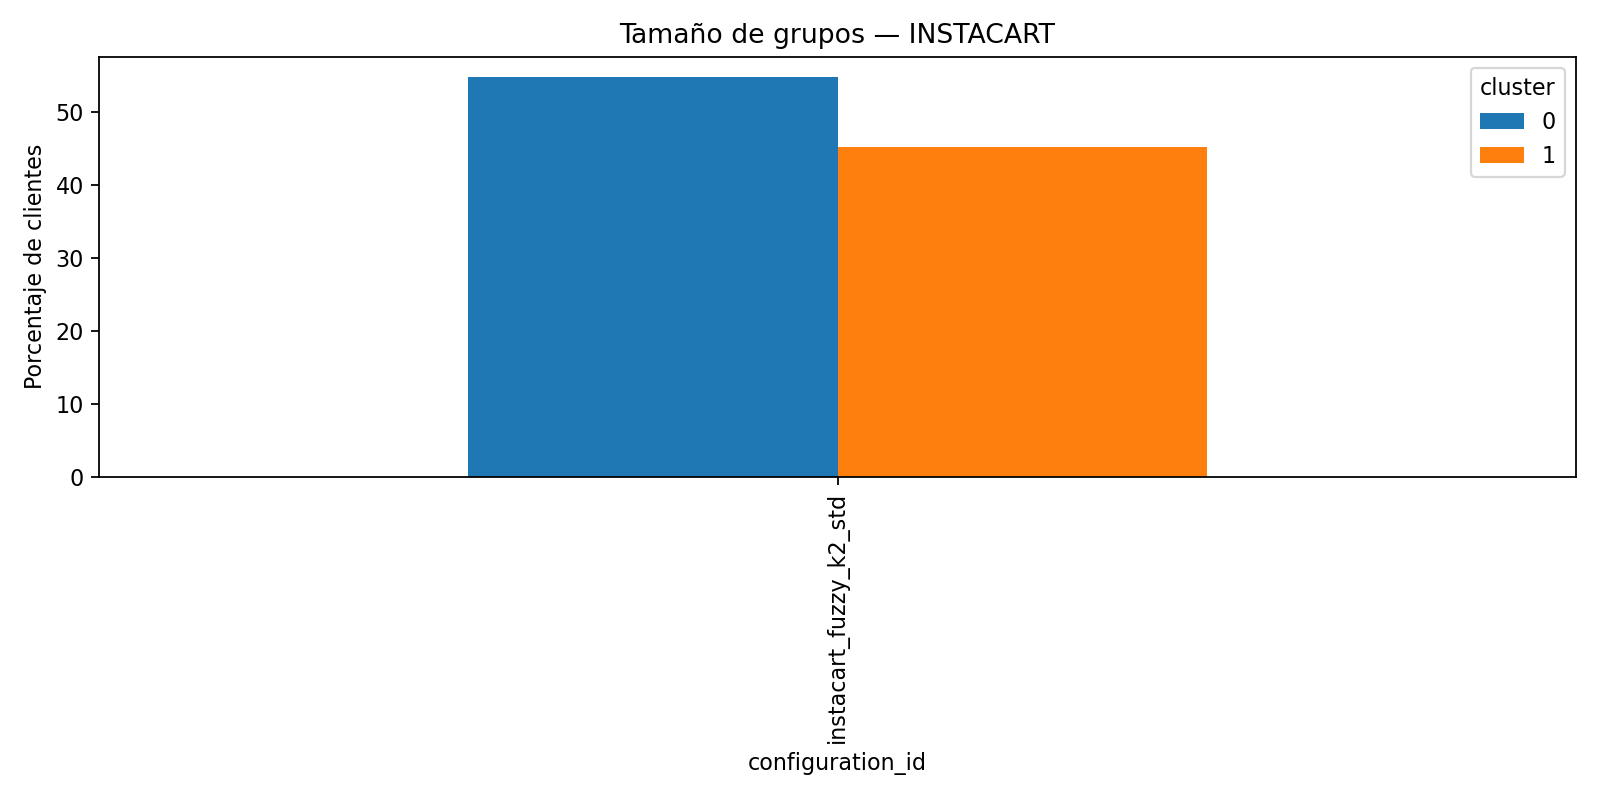
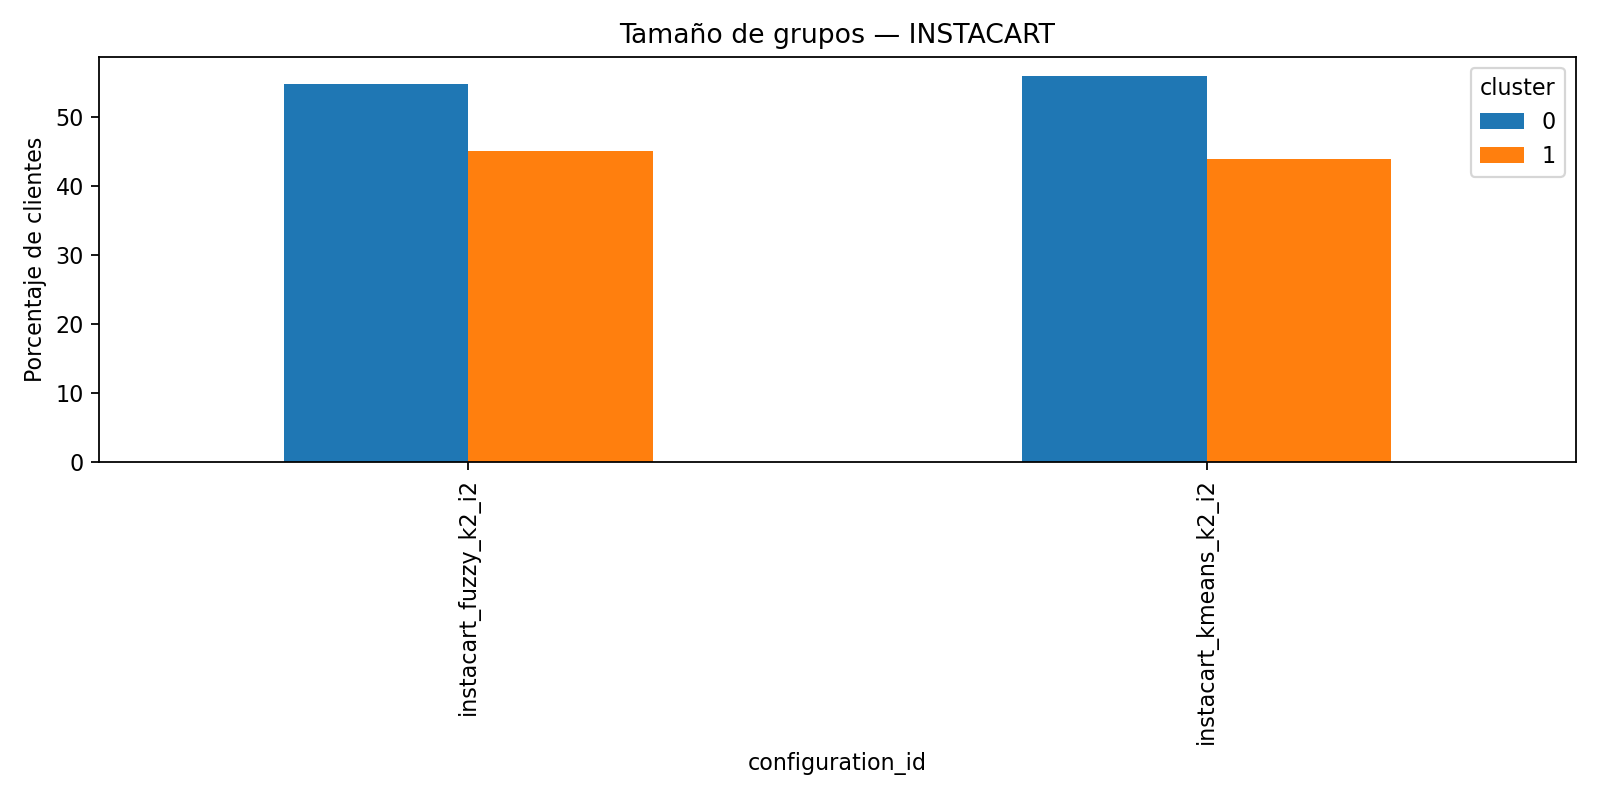
Align final evaluation roles and Instacart reference

diff --git a/code/06_evaluation/final_alternatives_analysis.py b/code/06_evaluation/final_alternatives_analysis.py
@@ -28,22 +28,52 @@ SCALED = {"hym": ROOT / "scaled_data" / "hym_scaled.csv", "instacart": ROOT / "s
 ORIGINAL = {"hym": ROOT / "extended_datasets" / "hym_model_extended.csv", "instacart": ROOT / "extended_datasets" / "instacart_model_extended.csv"}
 ID = {"hym": "customer_id", "instacart": "user_id"}
 
-# Two selected solutions plus the previous H&M solution for the requested comparison.
+# Roles are deliberately independent: a ranking winner is not automatically the
+# descriptive reference.  The IDs are stable because they are also used in the
+# generated filenames and manifests.
 FINAL_CONFIGS = [
-    dict(id="hym_kmeans_k6", dataset="hym", model="kmeans", k=6, features=["channel_2_ratio", "std_days_between_purchases", "avg_days_between_purchases"]),
-    dict(id="instacart_fuzzy_k2_std", dataset="instacart", model="fuzzy", k=2, features=["days_since_previous_order", "frequency", "avg_days_between_orders", "std_days_between_orders"]),
-    dict(id="hym_fuzzy_k5_previous", dataset="hym", model="fuzzy", k=5, features=["channel_2_ratio", "std_days_between_purchases", "avg_days_between_purchases"]),
+    dict(id="hym_kmeans_k6", dataset="hym", model="kmeans", k=6, features=["channel_2_ratio", "std_days_between_purchases", "avg_days_between_purchases"], roles=["descriptive_reference"]),
+    dict(id="instacart_fuzzy_k2_i2", dataset="instacart", model="fuzzy", k=2, features=["days_since_previous_order", "frequency", "avg_days_between_orders", "std_days_between_orders"], roles=["weighted_ranking_winner", "alternative"]),
+    dict(id="instacart_kmeans_k2_i2", dataset="instacart", model="kmeans", k=2, features=["days_since_previous_order", "frequency", "avg_days_between_orders", "std_days_between_orders"], roles=["descriptive_reference"]),
+    dict(id="hym_fuzzy_k5_previous", dataset="hym", model="fuzzy", k=5, features=["channel_2_ratio", "std_days_between_purchases", "avg_days_between_purchases"], roles=["alternative", "historical_ranking_alternative"]),
 ]
+
+REFERENCE_CONFIG_ID = {"hym": "hym_kmeans_k6", "instacart": "instacart_kmeans_k2_i2"}
+
+
+def config_manifest(ranking):
+    """Persist the decision layer separately from calculated ranking values."""
+    winners = ranking.sort_values(["dataset", "position_weighted", "stability_ari", "silhouette"],
+                                  ascending=[True, True, False, False]).groupby("dataset", sort=False).head(1)
+    winner_ids = {(r.dataset, r.model, int(r.k), r.columns) for r in winners.itertuples()}
+    rows = []
+    for config in FINAL_CONFIGS:
+        key = (config["dataset"], config["model"], config["k"], " | ".join(config["features"]))
+        roles = list(config["roles"])
+        if key in winner_ids and "weighted_ranking_winner" not in roles:
+            roles.append("weighted_ranking_winner")
+        rows.append({"configuration_id": config["id"], "dataset": config["dataset"], "algorithm": config["model"],
+                     "k": config["k"], "variables": " | ".join(config["features"]), "seed": SEED,
+                     "fit_scope": "full_dataset", "roles": " | ".join(roles),
+                     "ranking_winner_calculated": key in winner_ids,
+                     "descriptive_reference": config["id"] == REFERENCE_CONFIG_ID[config["dataset"]]})
+    manifest = pd.DataFrame(rows)
+    manifest.to_csv(OUT / "final_configuration_roles.csv", index=False)
+    winners.to_csv(OUT / "ranking_winners_ari10.csv", index=False)
+    return manifest
 
 def rank_ari10(summary):
     """Original percentile procedure with only the weights changed."""
     parts = []
     for dataset, group in summary.groupby("dataset", sort=False):
         group = group.copy()
-        group["pct_silhouette"] = group["silhouette"].rank(pct=True, ascending=True)
-        group["pct_calinski"] = group["calinski_harabasz"].rank(pct=True, ascending=True)
-        group["pct_davies"] = group["davies_bouldin"].rank(pct=True, ascending=False)
-        group["pct_stability"] = group["stability_ari"].rank(pct=True, ascending=True)
+        # These percentile columns are the original per-dataset calculations
+        # written by multimodel validation. Reuse them to preserve ties and
+        # the historical ranking exactly; Davies-Bouldin is already inverted.
+        required = ["pct_silhouette", "pct_calinski", "pct_davies", "pct_stability"]
+        missing = [column for column in required if column not in group]
+        if missing:
+            raise RuntimeError(f"Faltan percentiles originales: {missing}")
         group["ari_weight"] = ARI_WEIGHT
         group["weight_silhouette"] = group["weight_calinski"] = group["weight_davies"] = 0.30
         group["weight_stability"] = ARI_WEIGHT
@@ -82,11 +112,26 @@ def reproducibility_audit(ranking):
     key = ["dataset", "subset", "columns", "model", "k"]
     new10 = ranking.groupby("dataset", sort=False).head(10)[key].reset_index(drop=True)
     old10 = old10[key].reset_index(drop=True)
+    old_all = old.loc[old["ari_weight"].eq(0.10)].sort_values(["dataset", "position_weighted", "stability_ari", "silhouette"],
+        ascending=[True, True, False, False]).reset_index(drop=True)
+    new_all = ranking.sort_values(["dataset", "position_weighted", "stability_ari", "silhouette"],
+        ascending=[True, True, False, False]).reset_index(drop=True)
+    compare_cols = ["dataset", "subset", "columns", "model", "k"]
+    old_keys = set(map(tuple, old_all[compare_cols].to_numpy()))
+    new_keys = set(map(tuple, new_all[compare_cols].to_numpy()))
+    joined = old_all.merge(new_all, on=compare_cols, suffixes=("_old", "_new"), validate="one_to_one")
+    same_identity = old_keys == new_keys
+    same_scores = np.allclose(joined["score_weighted_old"], joined["score_weighted_new"], rtol=0, atol=1e-12)
+    position_mismatch = joined["position_weighted_old"].to_numpy() != joined["position_weighted_new"].to_numpy()
+    tied_mismatch = position_mismatch & np.isclose(joined["score_weighted_old"], joined["score_weighted_new"], rtol=0, atol=1e-12)
+    same_all = same_identity and same_scores and bool(np.all(~position_mismatch | tied_mismatch))
     same_top10 = new10.equals(old10)
     lines = [
         "# Reproducibility audit", "",
         f"- Validation source: `results/multimodel/multi_model_feature_validation.csv`; counts: {ranking.groupby('dataset').size().to_dict()}.",
         "- New score weights: silhouette=0.30, Calinski-Harabasz=0.30, Davies-Bouldin=0.30, ARI stability=0.10.",
+        f"- Complete ranking identities and scores match the existing sensitivity CSV at ARI=10%: `{same_identity and same_scores}`.",
+        f"- Any position differences are ties at the displayed score (historical floating-point tie ordering): `{same_all}`.",
         f"- Top-10 identity matches the existing sensitivity CSV at ARI=10%: `{same_top10}`.",
         "- Validation metrics are sample-based; assignments, profiles and projection figures are full-data fits with seed 42.",
         "- Command: `conda run -n tfg python code/06_evaluation/final_alternatives_analysis.py`.",
@@ -100,10 +145,22 @@ def fit_full(config, scaled, original):
     started = time.perf_counter()
     _, labels = mf.fit_clustering_model(config["model"], config["k"], scaled[config["features"]].to_numpy(dtype=np.float64))
     elapsed = time.perf_counter() - started
-    assignment = pd.DataFrame({ID[config["dataset"]]: scaled[ID[config["dataset"]]], "cluster": np.asarray(labels, dtype=int)})
+    customer_id = ID[config["dataset"]]
+    if scaled[customer_id].duplicated().any():
+        raise ValueError(f"{config['id']}: el identificador no es único en los datos escalados")
+    assignment = pd.DataFrame({customer_id: scaled[customer_id], "cluster": np.asarray(labels, dtype=int)})
+    if assignment[customer_id].duplicated().any() or len(assignment) != assignment[customer_id].nunique():
+        raise ValueError(f"{config['id']}: la asignación no tiene exactamente una fila por cliente")
     assignment["configuration_id"] = config["id"]
+    assignment["dataset"] = config["dataset"]; assignment["algorithm"] = config["model"]
+    assignment["k"] = config["k"]; assignment["variables"] = " | ".join(config["features"])
+    assignment["seed"] = SEED; assignment["fit_scope"] = "full_dataset"
     assignment.to_csv(OUT / f"assignments_{config['id']}.csv", index=False)
-    joined = original.merge(assignment, on=ID[config["dataset"]], how="inner", validate="one_to_one")
+    if original[customer_id].duplicated().any():
+        raise ValueError(f"{config['id']}: el identificador no es único en los datos originales")
+    joined = original.merge(assignment, on=customer_id, how="inner", validate="one_to_one")
+    if len(joined) != len(assignment) or set(joined[customer_id]) != set(assignment[customer_id]):
+        raise ValueError(f"{config['id']}: la población del perfil no coincide con la asignación")
     desc = [c for c in original.columns if c != ID[config["dataset"]]]
     sizes = joined.groupby("cluster").size().rename("size")
     profile = pd.concat([sizes, (100 * sizes / sizes.sum()).rename("pct"),
@@ -113,8 +170,9 @@ def fit_full(config, scaled, original):
     profile["model"], profile["k"] = config["model"], config["k"]
     profile["features_used_for_training"] = " | ".join(config["features"]); profile["profile_variables"] = " | ".join(desc)
     profile["seed"], profile["n_customers"], profile["fit_seconds"] = SEED, len(joined), elapsed
+    profile["fit_scope"] = "full_dataset"; profile["variables_used_for_training"] = " | ".join(config["features"])
     profile["fuzzy_label_rule"] = "argmax membership" if config["model"] == "fuzzy" else "not applicable"
-    profile["recency_definition"] = "In code, recency is the interval between the two last orders; not common-date recency." if config["dataset"] == "instacart" else "Not applicable"
+    profile["days_since_previous_order_definition"] = "Interval between the two last recorded orders; not recency from a common date." if config["dataset"] == "instacart" else "Not applicable"
     profile.to_csv(OUT / f"profiles_{config['id']}.csv", index=False)
     return assignment, joined, profile, elapsed
 
@@ -124,7 +182,7 @@ def interval_quality(results):
         if config["dataset"] == "hym":
             avg, std, note = "avg_days_between_purchases", "std_days_between_purchases", "frequency <= 2: one or two recorded purchases"
         else:
-            avg, std, note = "avg_days_between_orders", "std_days_between_orders", "frequency <= 2: one or two recorded orders; recency is last-to-last interval"
+            avg, std, note = "avg_days_between_orders", "std_days_between_orders", "frequency <= 2: one or two recorded orders; days_since_previous_order is the last-to-last interval"
         for cluster, g in joined.groupby("cluster"):
             rows.append({"dataset": config["dataset"], "configuration_id": config["id"], "cluster": cluster, "n_customers": len(g),
                 "pct_frequency_le_2": 100 * (g["frequency"] <= 2).mean(), "pct_interval_zero": 100 * (g[avg] == 0).mean(),
@@ -139,8 +197,13 @@ def concordance(results):
         if a["dataset"] != b["dataset"]: continue
         left = ca[1][[ID[a["dataset"]], "cluster"]].rename(columns={"cluster": "cluster_a"})
         right = cb[1][[ID[a["dataset"]], "cluster"]].rename(columns={"cluster": "cluster_b"})
-        merged = left.merge(right, on=ID[a["dataset"]], validate="one_to_one")
-        rows.append({"dataset": a["dataset"], "configuration_a": a["id"], "configuration_b": b["id"], "n_common_customers": len(merged), "ari_between_partitions": adjusted_rand_score(merged.cluster_a, merged.cluster_b)})
+        customer_id = ID[a["dataset"]]
+        if left[customer_id].duplicated().any() or right[customer_id].duplicated().any():
+            raise ValueError("Las asignaciones comparadas contienen identificadores duplicados")
+        merged = left.merge(right, on=customer_id, how="inner", validate="one_to_one")
+        if len(merged) != len(left) or len(merged) != len(right):
+            raise ValueError("Las particiones no tienen la misma población; no se calcula ARI")
+        rows.append({"dataset": a["dataset"], "configuration_a": a["id"], "configuration_b": b["id"], "n_common_customers": len(merged), "ari_between_partitions": adjusted_rand_score(merged.cluster_a, merged.cluster_b), "comparison_scope": "full_dataset_same_customers", "not_seed_stability": True})
         long = pd.crosstab(merged.cluster_a, merged.cluster_b).stack().rename("count").reset_index()
         long.columns = ["cluster_a", "cluster_b", "count"]; long.insert(0, "configuration_a", a["id"]); long.insert(1, "configuration_b", b["id"]); long.insert(0, "dataset", a["dataset"])
         long["pct_of_configuration_a"] = long["count"] / long.groupby("cluster_a")["count"].transform("sum") * 100
@@ -154,7 +217,7 @@ def figures(results):
         subset = profiles[profiles.dataset == dataset]
         ax = subset.pivot(index="configuration_id", columns="cluster", values="pct").plot(kind="bar", figsize=(10, 5))
         ax.set_ylabel("Porcentaje de clientes"); ax.set_title(f"Tamaño de grupos — {dataset.upper()}"); plt.tight_layout(); plt.savefig(OUT / f"group_sizes_{dataset}_ari10.png", dpi=160); plt.close()
-        entry = next(x for x in results if x[0]["dataset"] == dataset and x[0]["id"] != "hym_fuzzy_k5_previous")
+        entry = next(x for x in results if x[0]["id"] == REFERENCE_CONFIG_ID[dataset])
         config, _, joined, _, _ = entry; scaled = pd.read_csv(SCALED[dataset]); rng = np.random.default_rng(SEED); ix = rng.choice(len(scaled), size=min(PCA_SAMPLE, len(scaled)), replace=False)
         labels = joined.set_index(ID[dataset]).loc[scaled.iloc[ix][ID[dataset]], "cluster"].to_numpy()
         all_cols = [c for c in scaled.select_dtypes("number") if c != ID[dataset]]
@@ -169,7 +232,8 @@ def figures(results):
 def main():
     ranking = validation_outputs()
     reproducibility_audit(ranking)
-    winners = ranking.groupby("dataset", sort=False).first()
+    config_manifest(ranking)
+    winners = ranking.sort_values(["dataset", "position_weighted", "stability_ari", "silhouette"], ascending=[True, True, False, False]).groupby("dataset", sort=False).first()
     for dataset, expected in {"hym": ("kmeans", 6), "instacart": ("fuzzy", 2)}.items():
         got = (winners.loc[dataset, "model"], int(winners.loc[dataset, "k"]))
         if got != expected: print(f"WARNING: {dataset} winner is {got}; no choice was forced.")
@@ -181,9 +245,10 @@ def main():
     for config in FINAL_CONFIGS:
         scaled, original = loaded[config["dataset"]]; assignment, joined, profile, elapsed = fit_full(config, scaled, original)
         results.append((config, assignment, joined, profile, elapsed))
-    pd.concat([x[3] for x in results], ignore_index=True).to_csv(OUT / "profiles_selected_and_previous.csv", index=False)
+    pd.concat([x[3] for x in results], ignore_index=True).to_csv(OUT / "profiles_all_final_configurations.csv", index=False)
+    pd.concat([x[3] for x in results if x[0]["id"] == REFERENCE_CONFIG_ID[x[0]["dataset"]]], ignore_index=True).to_csv(OUT / "profiles_descriptive_references.csv", index=False)
     interval_quality(results); concordance(results); figures(results)
-    (OUT / "README.md").write_text("# Final ARI-10% analysis\n\nValidation uses the unchanged common-sample CSV: 175 configurations per dataset, same samples, seeds, metrics and aggregation. Weights are silhouette 30%, Calinski-Harabasz 30%, Davies-Bouldin 30%, ARI stability 10%. Full-data assignments, profiles and figures use seed 42 and all available customers. The H&M comparison includes the previous Fuzzy C-Means k=5. In Instacart, `recency` means the interval between the two last orders, not recency from a common date. Zero intervals are descriptive and do not identify their imputation source.\n\nRun: `conda run -n tfm-clustering python code/06_evaluation/final_alternatives_analysis.py`.\n", encoding="utf-8")
+    (OUT / "README.md").write_text("# Final ARI-10% analysis\n\nThe ranking remains calculated over the unchanged validation universe (175 configurations per dataset), using silhouette 30%, Calinski-Harabasz 30%, Davies-Bouldin 30% and stability ARI 10%; validation metrics are sample-based. Full-data fits use seed 42. `ranking_winners_ari10.csv` records calculated winners, while `final_configuration_roles.csv` records the independent descriptive references and alternatives. H&M profiles use K-Means k=6; Instacart profiles use K-Means k=2 with I2. Instacart Fuzzy C-Means k=2 with I2 remains the weighted-ranking winner and is retained as an alternative. `days_since_previous_order` is the interval between the two last recorded orders, not recency from a common date. Fuzzy profiles use argmax membership. Partition ARI is a same-customer comparison between configurations, not seed stability.\n\nRun: `conda run -n tfm-clustering python code/06_evaluation/final_alternatives_analysis.py`.\n", encoding="utf-8")
     print(f"Generated {OUT}")
 
 if __name__ == "__main__": main()

diff --git a/CRISP_DM_REPORT.md b/CRISP_DM_REPORT.md
@@ -561,6 +561,10 @@ El uso de las mismas semillas en todas las configuraciones garantiza una compara
 
 ## 8.6. Configuraciones finales
 
+### Distinción entre ranking y referencia descriptiva
+
+El ranking final conserva las 175 configuraciones de validación de cada dataset y calcula, mediante percentiles separados por dataset, 30 % de silhouette, 30 % de Calinski-Harabasz, 30 % de Davies-Bouldin (invertido, porque se prefieren valores menores) y 10 % de estabilidad ARI. El ganador ponderado se obtiene del ranking y no se sustituye por una decisión posterior de interpretación. Para los perfiles completos se utilizan como referencias H&M K-Means k=6 e Instacart K-Means k=2 con el subconjunto I2 (`days_since_previous_order`, `frequency`, `avg_days_between_orders`, `std_days_between_orders`). En Instacart, Fuzzy C-Means k=2 con I2 sigue encabezando el ranking ponderado y se conserva como alternativa. El intervalo `days_since_previous_order` es el intervalo entre los dos últimos pedidos registrados, no recencia respecto a una fecha común.
+
 | Dataset | Variables seleccionadas | Modelo | `k` | Silhouette | Calinski–Harabasz | Davies–Bouldin | ARI | Puntuación |
 |---|---|---|---:|---:|---:|---:|---:|---:|
 | H&M | `channel_2_ratio`, `std_days_between_purchases`, `avg_days_between_purchases` | Fuzzy C-Means | 5 | 0,652 | 55.333,59 | 0,567 | 1,000 | 97,21 |
@@ -617,6 +621,8 @@ Resulta notable que ninguna variable RFM forme parte del subconjunto ganador. RF
 > **Interpretación:** el gráfico de tamaños muestra que la solución no está dominada por un único grupo, aunque el cluster 4 representa solo el 8,76 %. El mapa de calor debe leerse por filas y variables: permite identificar diferencias relativas, pero sus valores estandarizados no sustituyen las medias originales de la tabla.
 
 ## 8.10. Perfil final de Instacart
+
+Los perfiles principales de esta actualización proceden de K-Means k=2 con I2. La solución Fuzzy C-Means k=2 con I2 se conserva para comparar particiones y como ganador del ranking ponderado, pero no se presenta como fuente de los perfiles principales. En Fuzzy C-Means, los perfiles alternativos se calculan mediante la pertenencia máxima (`argmax`).
 
 La solución final contiene dos clusters:
 
@@ -816,6 +822,8 @@ La caracterización mediante variables no usadas por el modelo permite enriquece
 Esta separación es esencial para evitar conclusiones causales que el diseño no permite sostener.
 
 ## Actualización: comparación de alternativas finales
+
+La carpeta `results/final_ari10/` contiene el ranking completo, `ranking_winners_ari10.csv`, `final_configuration_roles.csv`, las asignaciones y perfiles de las cuatro configuraciones completas, y las comparaciones de particiones. Los ajustes completos usan semilla 42; las métricas de validación siguen siendo resultados de muestra. El ARI entre configuraciones se calcula tras emparejar identificadores de cliente y no debe interpretarse como estabilidad entre semillas.
 
 La puntuación conjunta se conserva como referencia, pero no se interpreta como prueba de una superioridad clara. Diferencias mínimas de ARI pueden modificar el percentil de estabilidad y, por tanto, la posición relativa. Para estudiar esta limitación se añadió `code/06_evaluation/final_alternatives_analysis.py`, que compara seis configuraciones previamente verificadas: tres en H&M y tres en Instacart.
 

diff --git a/README.md b/README.md
@@ -79,6 +79,8 @@ Contiene la comparación específica de las seis alternativas finales, generada 
 Los archivos anteriores siguen siendo útiles para documentar el estudio completo, sus semillas y el contexto de todos los candidatos. Los nuevos archivos se utilizan para la comparación final de alternativas.
 #### `results/final_ari10/`
 
+Actualización de roles: `ranking_ari10_complete.csv` mantiene las 175 configuraciones por dataset y el criterio 30/30/30/10. `ranking_winners_ari10.csv` identifica el ganador calculado del ranking, mientras que `final_configuration_roles.csv` separa ganador ponderado, referencia descriptiva y alternativas. Los perfiles principales actuales proceden de H&M K-Means k=6 y de Instacart K-Means k=2 con I2. Instacart Fuzzy C-Means k=2 con I2 sigue siendo el ganador ponderado y se conserva como alternativa. `partition_comparison_ari.csv` y `partition_contingency_tables.csv` comparan particiones completas emparejadas por identificador, no estabilidad entre semillas. En Instacart, `days_since_previous_order` es el intervalo entre los dos últimos pedidos registrados, no recencia respecto a una fecha común.
+
 Contiene la actualizaciÃ³n del criterio final: 30 % silhouette, 30 % Calinski-Harabasz, 30 % Davies-Bouldin y 10 % estabilidad ARI. `ranking_ari10_complete.csv` conserva las 175 configuraciones de cada dataset; `ranking_ari10_top10.csv` contiene los diez primeros puestos y `mean_scores_by_subset_algorithm_ari10.csv` las medias por subconjunto y algoritmo. Los perfiles y asignaciones se ajustan con todos los clientes y semilla 42. Las figuras `projections_*_ari10.png` y `group_sizes_*_ari10.png` se generan desde el mismo script. La comparaciÃ³n H&M usa `partition_comparison_ari.csv` y `partition_contingency_tables.csv` frente a la soluciÃ³n Fuzzy C-Means de cinco grupos anterior.
 
 EjecuciÃ³n desde la raÃz: `conda run -n tfg python code/06_evaluation/final_alternatives_analysis.py`. La auditorÃa de coincidencia con la sensibilidad previa estÃ¡ en `results/final_ari10/reproducibility_audit.md`.
